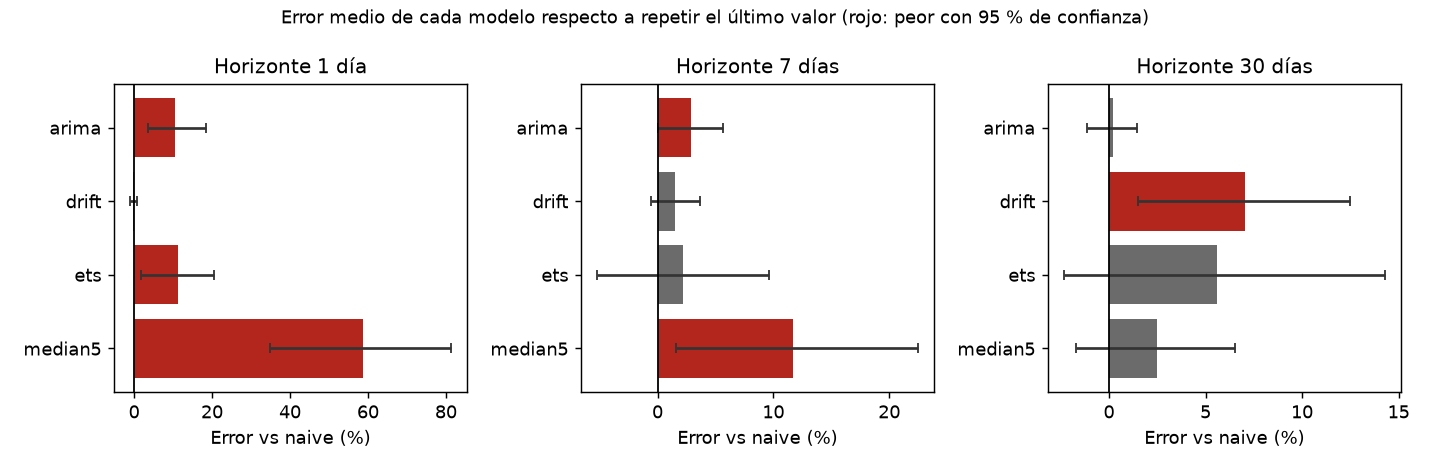
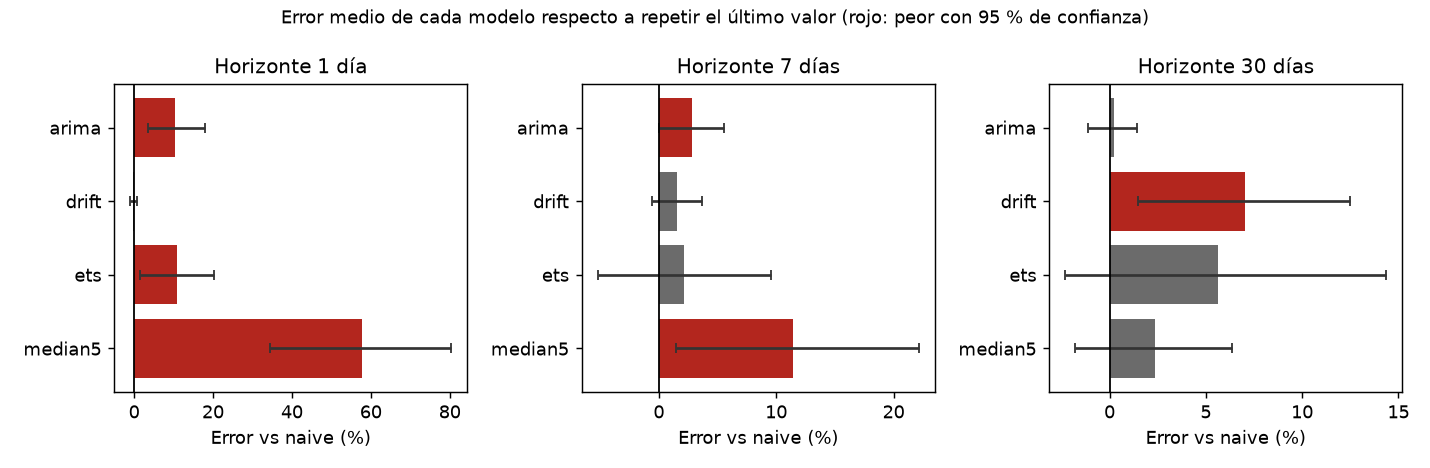
Corregir hallazgos de la revisión: fuga por interpolar el día faltante, empates de dirección, tests que no detectaban la fuga y fetch más estricto (#5)

diff --git a/tests/test_backtest.py b/tests/test_backtest.py
@@ -27,7 +27,8 @@ def test_el_modelo_solo_ve_hasta_el_origen():
 def test_cambiar_el_futuro_no_cambia_los_pronosticos():
     a = series(500) + np.random.default_rng(2).normal(0, 0.1, 500)
     b = a.copy()
-    cut = 365 + 7 * 5  # cuarto origen
+    cut = 364 + 7 * 4  # un origen de verdad: 364, 371, ..., 392 (el quinto)
+    assert cut in origins(len(a), 1)
     b[cut + 1 :] += 100  # todo lo posterior al origen cambia
     fa = run(a, {"drift": drift, "median5": median5}, horizons=(1,), min_train=365, step=7)
     fb = run(b, {"drift": drift, "median5": median5}, horizons=(1,), min_train=365, step=7)
@@ -47,11 +48,13 @@ def test_ultimo_origen_deja_espacio_para_el_horizonte_mas_largo():
     assert r[-1] + 30 <= 499
 
 
-def test_serie_constante_naive_y_drift_no_fallan():
+def test_serie_constante_ningun_modelo_falla_ni_se_aleja_del_valor():
+    from dopusd.models import MODELS
+
     values = series(500)
-    folds = run(values, {"naive": naive, "drift": drift}, horizons=(1, 7), min_train=365, step=7)
-    assert (folds.forecast == 60.0).all()
-    assert folds.forecast.eq(folds.actual).all()
+    folds = run(values, MODELS, horizons=(1, 7), min_train=365, step=7)
+    assert folds.forecast.notna().all()
+    assert (folds.forecast - 60.0).abs().max() < 1e-3
 
 
 def test_con_tendencia_lineal_drift_acierta_y_naive_se_atrasa_h_pasos():
@@ -82,19 +85,34 @@ def test_un_modelo_peor_sale_con_intervalo_positivo():
     assert row.diff_lo > 0 and row.mae_vs_naive > 0
 
 
-def test_bootstrap_por_bloques_cubre_todos_los_indices_posibles_y_respeta_el_largo():
+def test_un_bloque_del_tamano_de_la_serie_es_una_rotacion_y_siempre_da_la_media():
+    # Con bloques circulares contiguos del largo completo, cada remuestreo es una rotación de la serie y su media no cambia.
+    # Un remuestreo uno a uno, o uno que no cierre el círculo, daría medias distintas.
     diff = np.arange(10, dtype=float)
-    means = block_bootstrap_means(diff, block=3, draws=500, rng=np.random.default_rng(0))
+    means = block_bootstrap_means(diff, block=10, draws=300, rng=np.random.default_rng(0))
+    np.testing.assert_allclose(means, 4.5)
+
+
+def test_bootstrap_por_bloques_respeta_la_forma():
+    means = block_bootstrap_means(np.arange(10, dtype=float), block=3, draws=500, rng=np.random.default_rng(0))
     assert means.shape == (500,)
     assert 0 <= means.min() and means.max() <= 9
 
 
-def test_load_series_interpola_el_dia_que_falta(tmp_path):
+def test_load_series_repite_el_dia_anterior_y_no_mira_el_siguiente(tmp_path):
     p = tmp_path / "s.csv"
     pd.DataFrame({"date": ["2025-01-01", "2025-01-02", "2025-01-04"], "usd_dop": [60.0, 61.0, 63.0]}).to_csv(p, index=False)
     s = load_series(p)
     assert len(s) == 4
-    assert s["2025-01-03"] == pytest.approx(62.0)
+    assert s["2025-01-03"] == pytest.approx(61.0)
+
+
+def test_un_empate_de_direccion_no_cuenta_como_fallo():
+    values = series(600) + np.random.default_rng(5).normal(0, 0.2, 600)
+    folds = run(values, {"naive": naive, "median5": median5}, horizons=(1,), min_train=365, step=7)
+    row = summarize(folds).query("model == 'median5'").iloc[0]
+    ties = (folds[folds.model == "median5"].forecast == folds[folds.model == "median5"]["last"]).sum()
+    assert row.direction_n == row.n - ties
 
 
 def test_los_datos_reales_no_tienen_huecos_ni_valores_absurdos():

diff --git a/src/dopusd/backtest.py b/src/dopusd/backtest.py
@@ -15,9 +15,10 @@ STEP = 7
 
 
 def load_series(path: Path) -> pd.Series:
-    """Serie diaria sin huecos. Un día que falta se interpola en línea recta (hay uno solo en los datos)."""
+    """Serie diaria sin huecos. Un día que falta repite el valor del día anterior: interpolar usaría el día siguiente
+    y, si el hueco cae en un origen, el modelo vería el futuro (pasa con un día en los datos)."""
     s = pd.read_csv(path, parse_dates=["date"]).set_index("date")["usd_dop"]
-    return s.asfreq("D").interpolate(method="linear")
+    return s.asfreq("D").ffill()
 
 
 @dataclass(frozen=True)
@@ -60,8 +61,10 @@ def block_bootstrap_means(diff: np.ndarray, block: int, draws: int, rng: np.rand
 
 def summarize(folds: pd.DataFrame, baseline: str = "naive", seed: int = 7, draws: int = 2000) -> pd.DataFrame:
     """MAE, MAE relativo al baseline con intervalo bootstrap, y acierto de dirección."""
-    folds = folds.assign(abs_err=(folds.forecast - folds.actual).abs(),
-                         hit=np.sign(folds.forecast - folds["last"]) == np.sign(folds.actual - folds["last"]))
+    predicted = np.sign(folds.forecast - folds["last"])
+    # Un empate (el modelo predice "igual") no es ni acierto ni fallo de dirección: se excluye del porcentaje.
+    hit = (predicted == np.sign(folds.actual - folds["last"])).where(predicted != 0)
+    folds = folds.assign(abs_err=(folds.forecast - folds.actual).abs(), hit=hit)
     rng = np.random.default_rng(seed)
     out = []
     for (model, h), g in folds.groupby(["model", "horizon"]):
@@ -71,9 +74,10 @@ def summarize(folds: pd.DataFrame, baseline: str = "naive", seed: int = 7, draws
         boot = block_bootstrap_means(diff, block=max(1, -(-h // STEP)), draws=draws, rng=rng)
         out.append({
             "model": model, "horizon": h, "n": len(err), "mae": err.mean(),
-            "mae_vs_naive": err.mean() / base.mean() - 1 if model != baseline else 0.0,
+            "mae_vs_naive": (err.mean() / base.mean() - 1 if base.mean() > 0 else float("nan")) if model != baseline else 0.0,
             "diff_lo": np.percentile(boot, 2.5), "diff_hi": np.percentile(boot, 97.5),
             "direction": g.hit.mean() if model != baseline else float("nan"),  # el naive nunca predice un cambio
+            "direction_n": int(g.hit.notna().sum()) if model != baseline else 0,
         })
     return pd.DataFrame(out)
 

diff --git a/src/dopusd/fetch.py b/src/dopusd/fetch.py
@@ -27,10 +27,13 @@ async def fetch_day(client: httpx.AsyncClient, day: date, sem: asyncio.Semaphore
                     if r.status_code == 404:
                         break  # esa fecha no existe en este espejo, se prueba el otro
                     r.raise_for_status()
-                    rate = r.json()["usd"]["dop"]
-                    return day, float(rate)
-                except (httpx.HTTPError, KeyError, ValueError):
-                    await asyncio.sleep(1 + attempt)
+                    rate = float(r.json()["usd"]["dop"])
+                    if not 1 < rate < 1000:  # un valor absurdo se trata como día faltante
+                        break
+                    return day, rate
+                except (httpx.HTTPError, KeyError, ValueError, TypeError):
+                    if attempt < 2:
+                        await asyncio.sleep(1 + attempt)
         return day, None
 
 
@@ -41,6 +44,9 @@ async def main(start: date, end: date, out: Path) -> None:
         results = await asyncio.gather(*(fetch_day(client, d, sem) for d in days))
     ok = [(d, r) for d, r in results if r is not None]
     missing = [d for d, r in results if r is None]
+    if len(missing) > 0.02 * len(days):
+        # Con la red caída no se pisa un dataset bueno con uno roto.
+        sys.exit(f"faltan {len(missing)} de {len(days)} días; no escribo {out}")
     out.parent.mkdir(parents=True, exist_ok=True)
     with out.open("w", newline="") as f:
         w = csv.writer(f)

diff --git a/README.md b/README.md
@@ -12,13 +12,15 @@ Ningún modelo le gana al último valor. Datos: 972 días (2024-03-06 a 2026-11-
 
 | Modelo | h=1 día | h=7 días | h=30 días |
 |---|---|---|---|
-| naive (último valor) | 0.176 | 0.465 | 1.100 |
+| naive (último valor) | 0.177 | 0.468 | 1.101 |
 | drift (tendencia del último año) | -0.2 % (incluye 0) | +1.5 % (incluye 0) | **+7.0 %, peor** |
-| ETS con tendencia amortiguada | **+11.2 %, peor** | +2.2 % (incluye 0) | +5.6 % (incluye 0) |
-| ARIMA(1,1,1) | **+10.6 %, peor** | **+2.9 %, peor** | +0.2 % (incluye 0) |
-| mediana de 5 días | **+58.7 %, peor** | **+11.7 %, peor** | +2.5 % (incluye 0) |
+| ETS con tendencia amortiguada | **+10.9 %, peor** | +2.2 % (incluye 0) | +5.6 % (incluye 0) |
+| ARIMA(1,1,1) | **+10.3 %, peor** | **+2.8 %, peor** (por poco) | +0.2 % (incluye 0) |
+| mediana de 5 días | **+57.8 %, peor** | **+11.4 %, peor** | +2.4 % (incluye 0) |
 
-"Peor" significa que el intervalo de la diferencia queda entero por encima de cero. "Incluye 0" significa que con 83 orígenes no puedo distinguirlo del naive en ninguna dirección. El acierto de dirección (si el modelo adivina si sube o baja) no pasa de 57 % en ningún caso, y la mayoría queda por debajo de 50 %.
+"Peor" significa que el intervalo de la diferencia queda entero por encima de cero. "Incluye 0" significa que con 83 orígenes no puedo distinguirlo del naive en ninguna dirección. El "peor" de ARIMA a 7 días es el más justo: su límite inferior es 0.0001 pesos. Probé 10 semillas del bootstrap y siempre quedó por encima de cero, pero por muy poco. Tampoco corrijo por haber hecho 12 comparaciones, lo que solo debilita los "peor".
+
+El acierto de dirección (si el modelo adivina si sube o baja) no pasa de 57 % en ningún caso y 9 de 12 quedan por debajo de 50 %. Cuando un modelo predice "igual que hoy" (le pasa a la mediana de 5 días en 9 de 83 orígenes) no cuento ese origen ni como acierto ni como fallo.
 
 ![Error de cada modelo respecto al naive, con intervalo del 95 %](results/error_vs_naive.png)
 
@@ -43,9 +45,9 @@ Para volver a bajar los datos: `uv run python -m dopusd.fetch` (tarda un minuto,
 
 ## Lo que hay que saber antes de creerle
 
-- **Los datos no son la tasa oficial.** Vienen de `fawazahmed0/currency-api`, un agregado gratuito publicado en jsDelivr. No es la tasa del Banco Central ni la de ningún banco. Tiene ruido: el 2026-09-29 marca 57.72 cuando el día anterior y el siguiente rondan 59.5, un valor suelto que no se repite. La autocorrelación de los retornos diarios es de -0.24, más negativa de lo que esperaría de una moneda que se mueve poco, y creo que es en parte ese ruido. No limpié la serie: un filtro centrado miraría el futuro de cada origen.
+- **Los datos no son la tasa oficial.** Vienen de `fawazahmed0/currency-api`, un agregado gratuito publicado en jsDelivr. No es la tasa del Banco Central ni la de ningún banco. Tiene ruido: el 2026-09-29 marca 57.72 cuando el día anterior y el siguiente rondan 59.5, un valor suelto que no se repite. La autocorrelación de los retornos diarios es de -0.23, más negativa de lo que esperaría de una moneda que se mueve poco, y creo que es en parte ese ruido. No limpié la serie: un filtro centrado miraría el futuro de cada origen.
 - **Es una serie, dos años y 83 orígenes.** Sirve para ver que ARIMA y ETS no aportan aquí. No dice nada de otras monedas ni de otros periodos.
-- **Un día falta** (2025-12-10) y lo interpolo en línea recta.
+- **Un día falta** (2025-12-10) y repito el valor del día anterior. Antes lo interpolaba, y como ese día es justo un origen del backtest, el modelo veía el valor del día siguiente. Lo encontró una revisión; cambió el naive a 1 día de 0.1757 a 0.1767 y ninguna conclusión.
 - **No hay modelos con variables externas** (inflación, tasa de política monetaria, reservas). Un modelo así quizá le gane al naive, pero habría que conseguir esos datos con la misma fecha de publicación que tendría un usuario real, y no los conseguí.
 - **No es una recomendación de nada.**
 

diff --git a/docs/decisions.md b/docs/decisions.md
@@ -10,7 +10,9 @@ Cada entrada dice qué elegí, qué descarté y por qué.
 
 ## 2026-11-03 · Cómo se evita mirar el futuro
 
-El modelo recibe `values[: origen + 1]` y nada más. Lo comprobé de tres formas en los tests: un modelo espía que guarda lo que recibe y se compara con el prefijo de la serie; cambiar todo lo posterior al origen no cambia el pronóstico; y la prueba de que el test puede fallar. Metí a propósito `values[: origen + 2]` y fallaron 3 tests (el del espía, el de la tendencia lineal y el de dos modelos idénticos), así que sé que el arnés detecta una fuga de un solo día.
+El modelo recibe `values[: origen + 1]` y nada más. Lo comprobé de tres formas en los tests: un modelo espía que guarda lo que recibe y se compara con el prefijo de la serie; cambiar todo lo posterior al origen no cambia el pronóstico; y la prueba de que el test puede fallar. Metí a propósito `values[: origen + 2]` y ahora fallan 5 tests, así que sé que el arnés detecta una fuga de un solo día.
+
+La primera versión no era tan buena: el test de "cambiar el futuro" cortaba en el índice 400, que no es un origen (son 364, 371, ..., 399, 406), y por eso no detectaba esa fuga; los 3 fallos de entonces eran el espía y dos casos que caían por casualidad. Una revisión posterior lo encontró y lo corté en un origen real. También encontró una fuga que sí existía: el único día que falta en los datos es un origen, y interpolarlo en línea recta le mostraba al modelo el día siguiente. Ahora se repite el valor anterior.
 
 ## 2026-11-03 · No limpiar la serie
 
